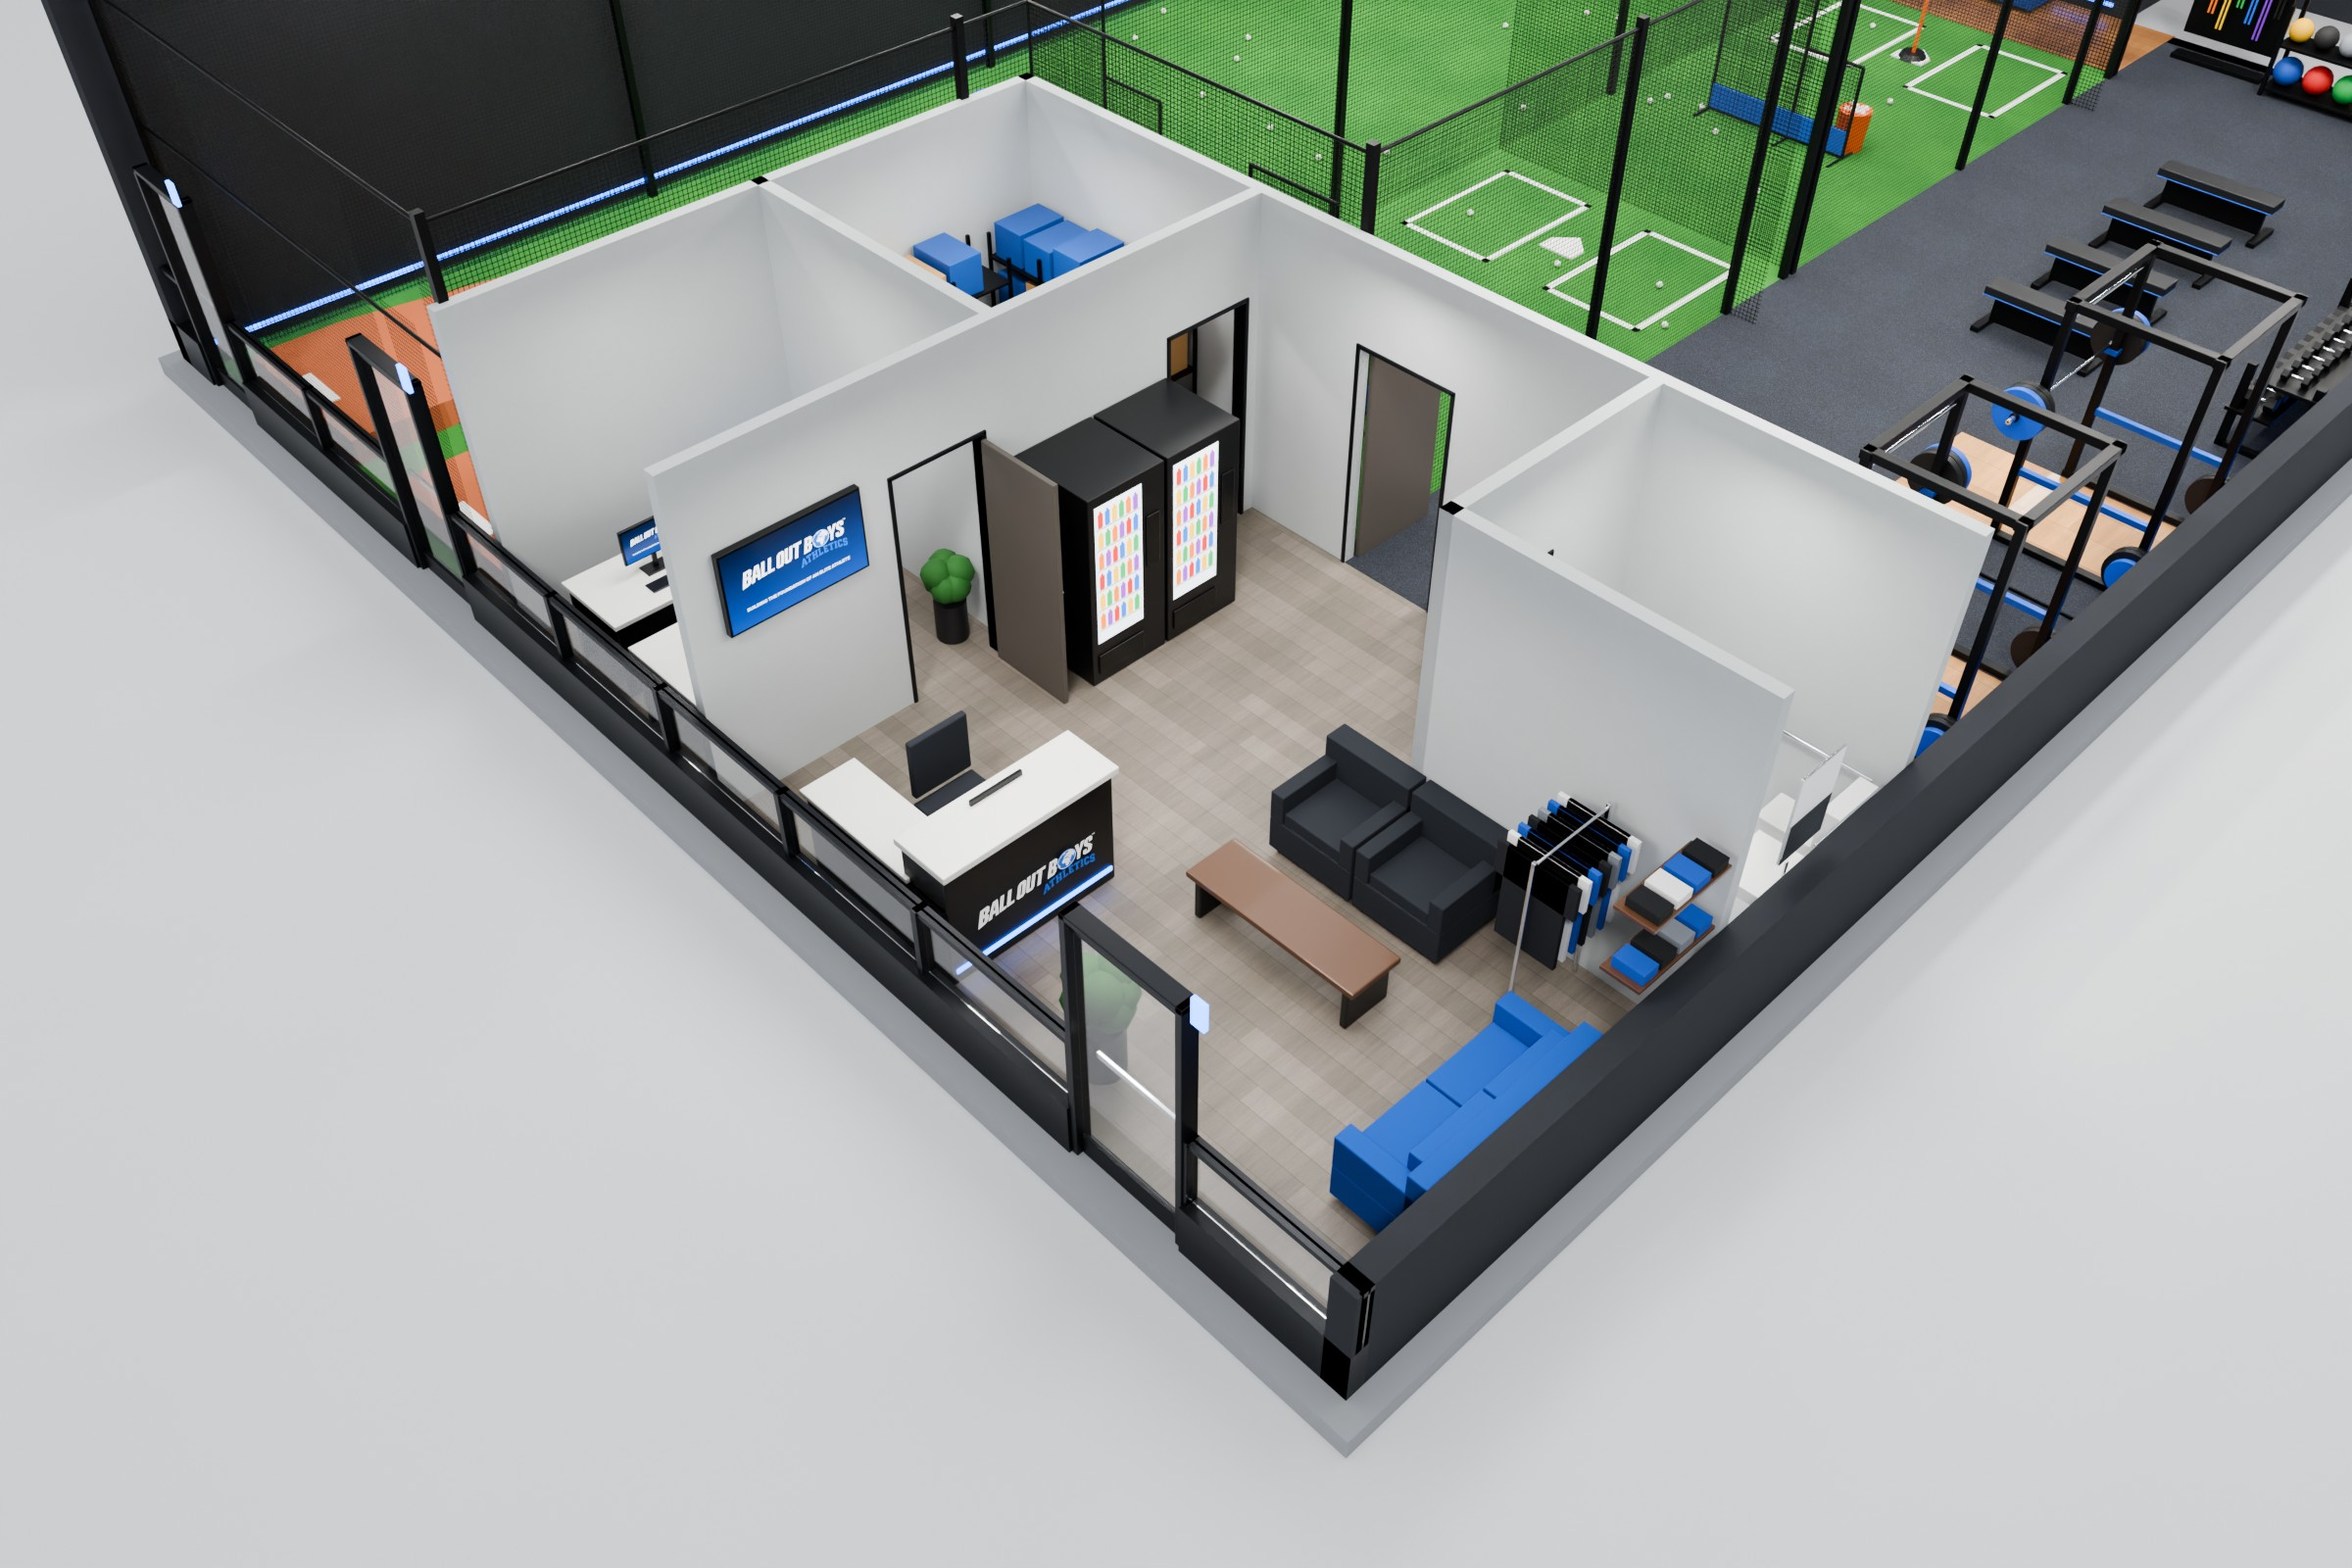
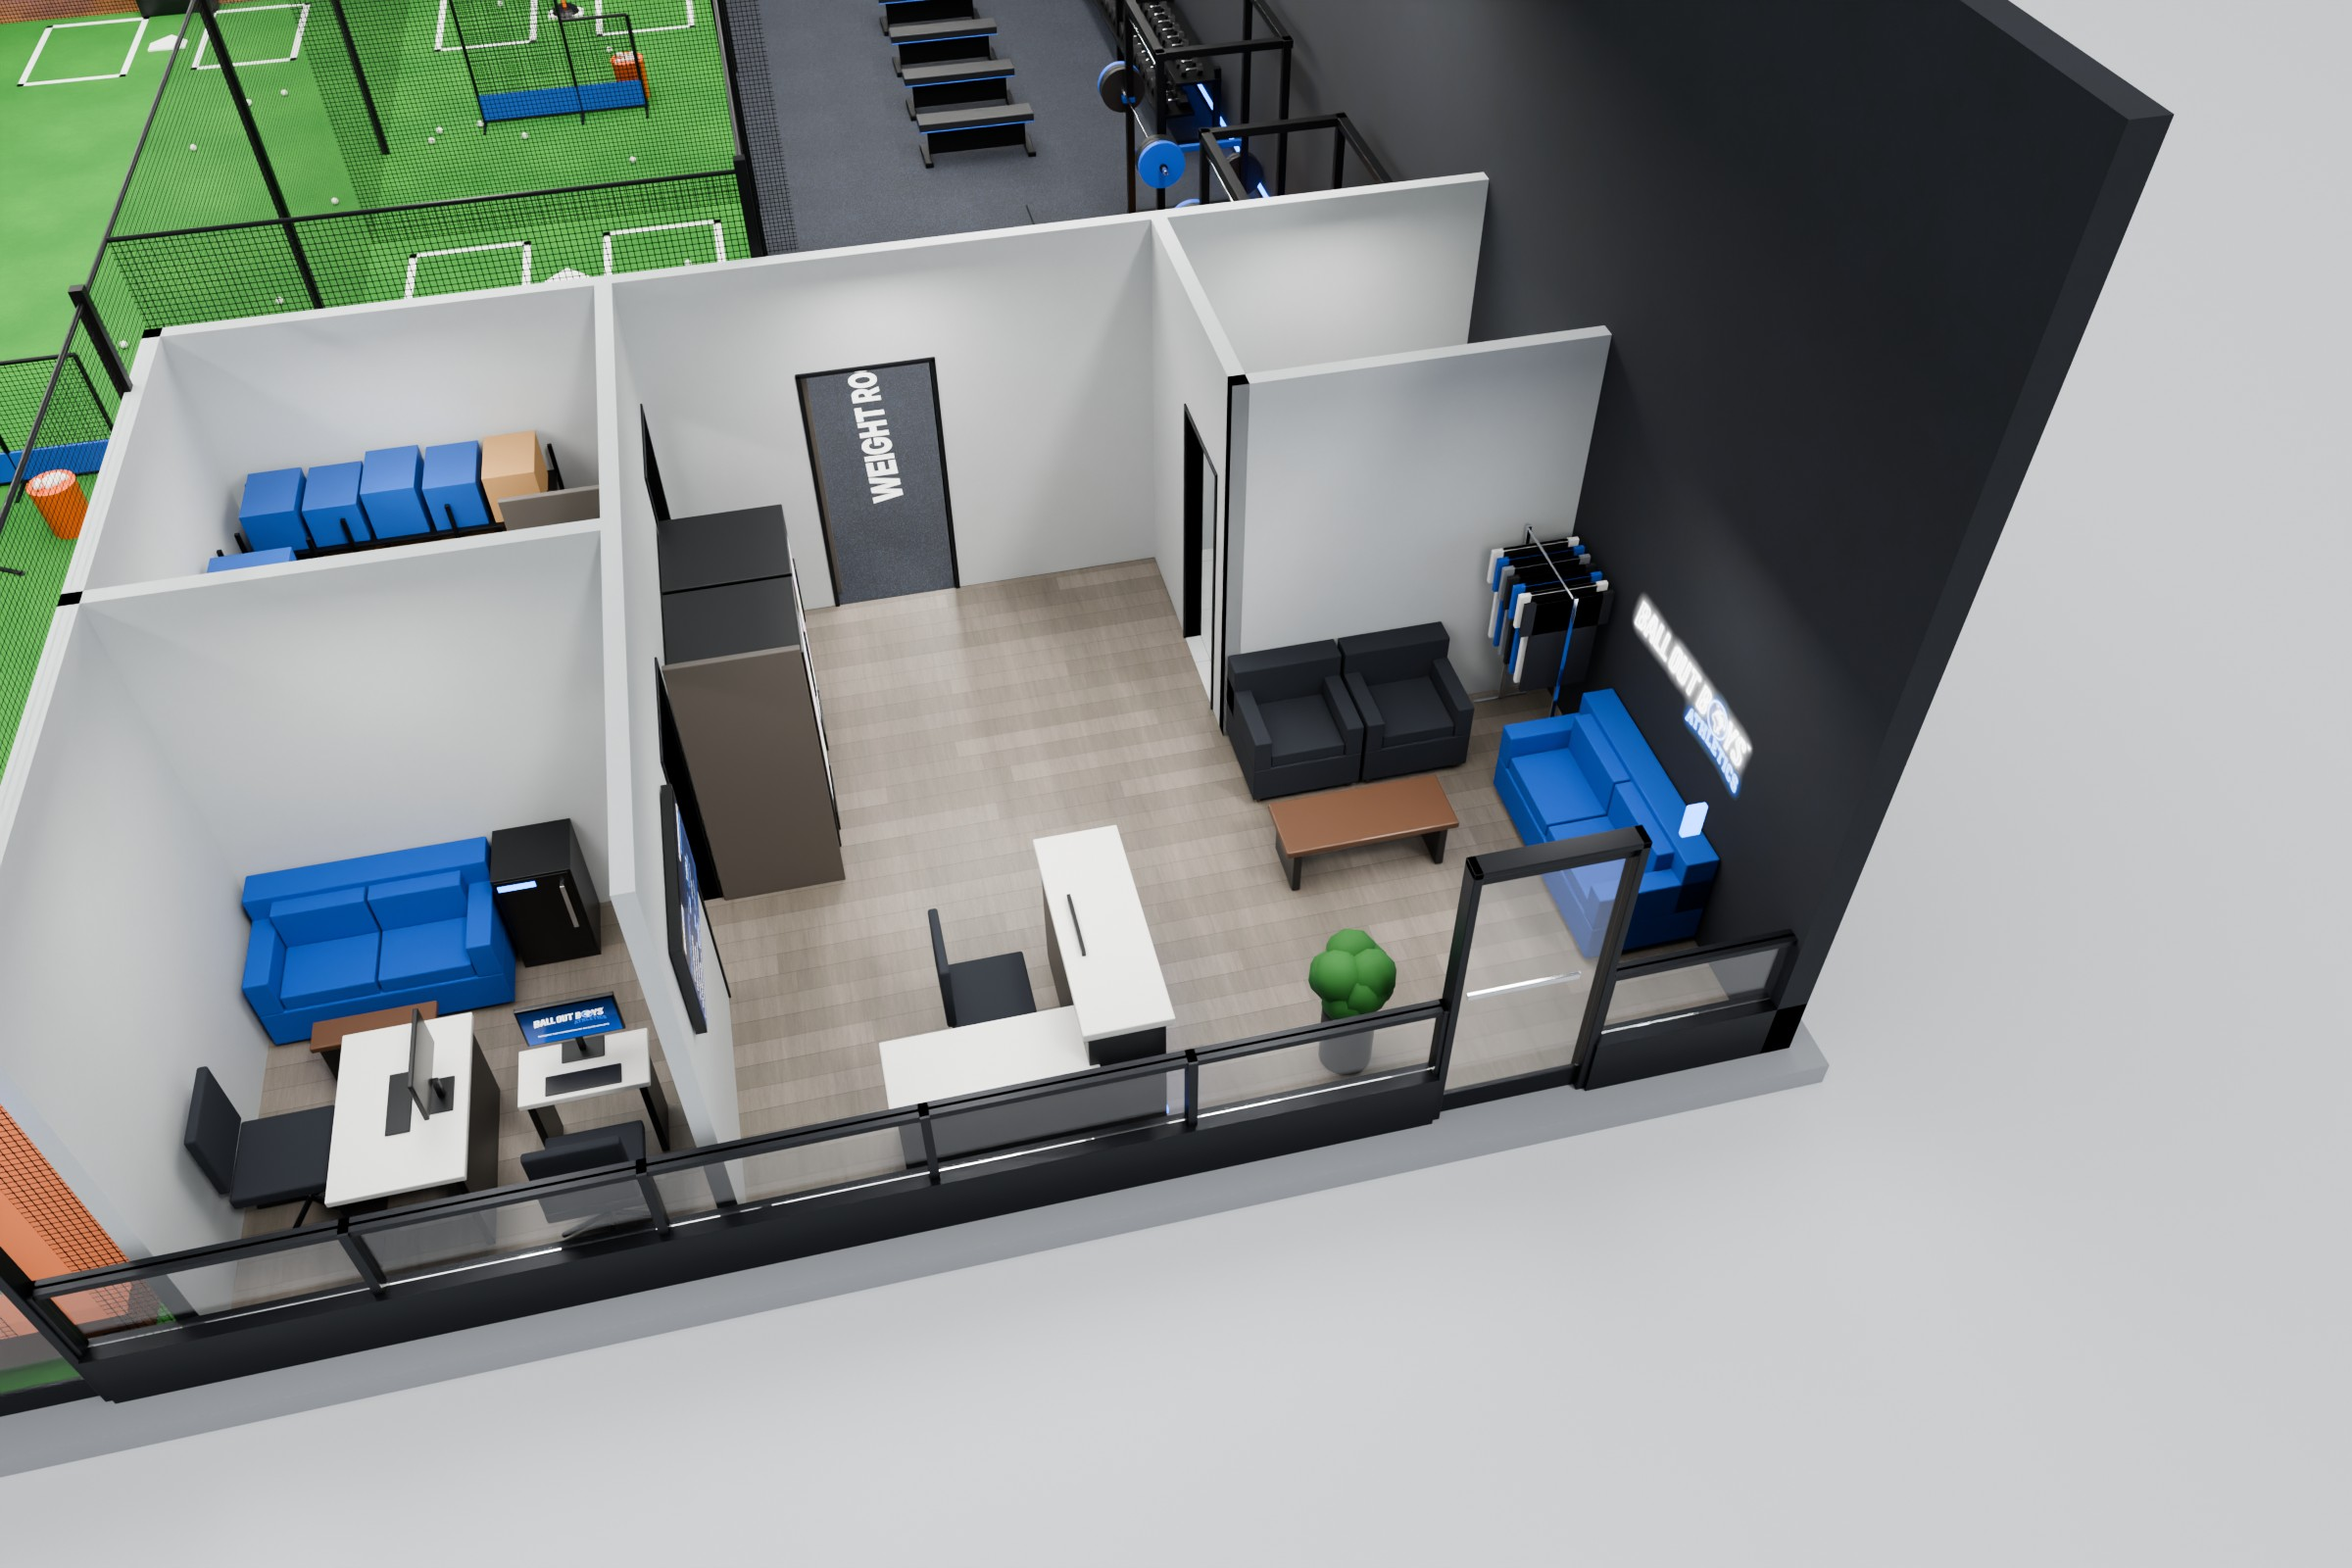
Facility: final v7 renders and tour (office view, all stills updated)
Claude-Session: https://claude.ai/code/session_015h1f7NebmL7qRNLp6yqK3J

diff --git a/facility/tour/index.html b/facility/tour/index.html
@@ -206,7 +206,7 @@ const STOPS = [
   { id: "lobby", name: "Lobby", x: 40, y: 3.5, eye: 5.3, yaw: 318, eyebrow: "Front entrance",
     spec: "Reception desk · plans TV · couch + 2 chairs · LED sign · merch",
     text: "Check in at the reception desk. The TV behind it lists every membership plan and 1-on-1 lessons. The couch sits under the lit Ball Out Boys sign, with two chairs across the coffee table and the merch rack in the corner." },
-  { id: "office", name: "Coach Ned's Office", x: 26.4, y: 6.4, eye: 5.3, yaw: 240, eyebrow: "Office",
+  { id: "office", name: "Coach Ned's Office", x: 26.4, y: 6.4, eye: 5.3, yaw: 258, pitch: -20, eyebrow: "Office",
     spec: "Your desk · second desk · couch + table · TV · mini fridge",
     text: "Private space for evaluations, parent meetings and planning each athlete's development." },
   { id: "hall", name: "Hallway", x: 35, y: 15.6, eye: 5.3, yaw: 0, eyebrow: "Office block",
@@ -624,12 +624,12 @@ async function goStop(id) {
   if (mode === "dollhouse") {
     savedHome.pos.copy(camera.position); savedHome.tgt.copy(controls.target);
     controls.enabled = false;
-    yaw = s.yaw; pitch = -4;
+    yaw = s.yaw; pitch = s.pitch ?? -4;
   } else {
     // walking between panoramas: face the direction of travel
     const f = byId[from] || s;
     if (f && f !== s) yaw = THREE.MathUtils.radToDeg(Math.atan2(s.x - f.x, s.y - f.y));
-    pitch = -4;
+    pitch = s.pitch ?? -4;
     await fadePano(0, 280);
   }
   mode = "moving";
